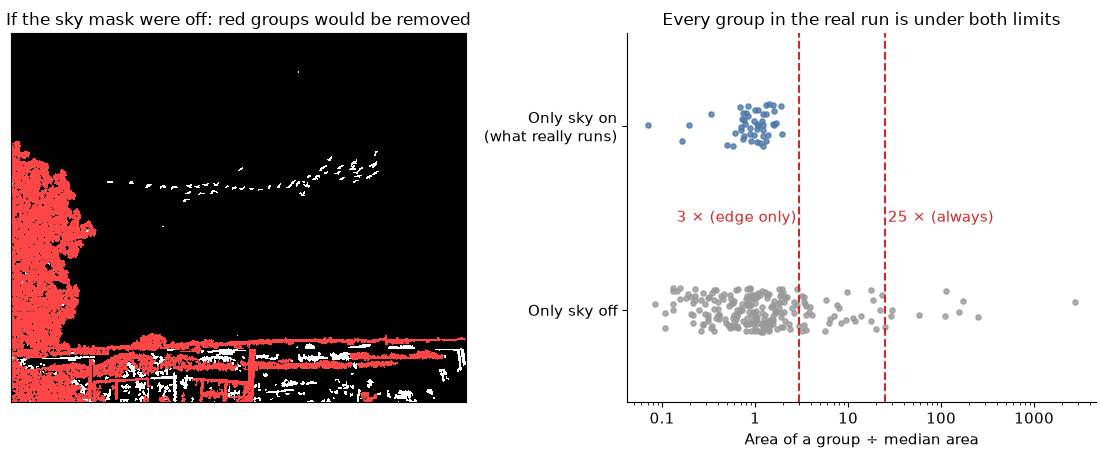
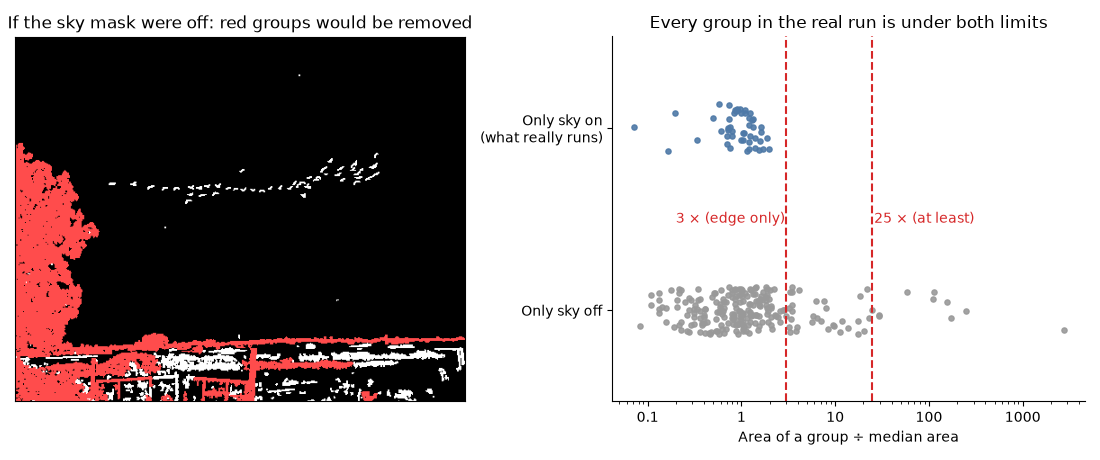
Bring the processing guide up to the current detector
Remove the gaps that are fixed and move what still matters into the review
notes of steps 2 and 4. Measure every number again on the current detector,
in the app's default settings, and redraw the step 16 picture.

diff --git a/docs/processing.md b/docs/processing.md
@@ -21,9 +21,8 @@ The code for all of this is in [`blob_filter.rs`](../src-tauri/src/blob_filter.r
 Every step ends with a **review note**: why the step is there, what happens without it, and where it is weak. The
 numbers come from switching off one step at a time, on this photo and on synthetic scenes where the true count is known.
 On this photo more rings is not better, because its true count is unknown. It is also the only real photo tested, so
-treat the numbers as evidence and not as proof. [Known gaps](#known-gaps-and-what-was-tried) lists the gaps found and
-what happened when they were tackled. Scene numbers in the notes were measured before those fixes, unless a note says
-otherwise. The fixes don't change this photo's count at the default settings.
+treat the numbers as evidence and not as proof. [Known gaps](#known-gaps-and-what-was-tried) lists the weak points that
+remain and the changes that were tried and rejected.
 
 ## The steps at a glance
 
@@ -93,7 +92,7 @@ $$
 
 > **Review note.** A bird is a silhouette, so brightness is enough, and one channel takes less memory. No single colour
 > channel does clearly better here: blue gives 51, green 52 and red 56, against 53 for grey. The weak point is the
-> assumption itself: a bird lighter than the sky scores zero ([gap 5](#gap-5-only-dark-or-only-light-birds)).
+> assumption itself: a bird lighter than the sky scores zero ([gap 3](#gap-3-only-dark-or-only-light-birds)).
 
 ---
 
@@ -120,8 +119,11 @@ the fields are still there, just blocky.
 
 ![The tiny copy before and after the closing](images/03_sky_erase.jpg)
 
-> **Review note.** Without the closing, a flock would look like rough texture and be taken for land. The shrinking
-> follows $w$, which is why $w$ now grows with the photo ([gap 1](#gap-1-the-window-is-in-pixels)).
+> **Review note.** Without the closing, a flock would look like rough texture and be taken for land. $w$ grows with the
+> photo because otherwise the count depends on the resolution. This photo resized to 0.5×, 0.75×, 1.5× and 2× gives 53
+> every time, and 3× and 4× give 55 and 58. With $w$ fixed at 31, the same copies give 43, 51, 60, 64, 66 and 74. Resized
+> copies have no new detail, so this is only an approximation of real photos at those sizes. The blur, the opening and
+> the minimum radius are still in pixels, which is one likely reason why 3× and 4× drift.
 
 ### Step 3: Measure how rough each area is
 
@@ -179,10 +181,16 @@ back to the size of the photo.
 
 ![The sky mask, plain and over the photo](images/05_sky_mask.jpg)
 
-> **Review note.** Rule 1 earns its place: without it this photo gives 139. Rule 2 changes nothing here, but it protects
-> dense flocks: a scene with a ball of 120 overlapping birds inside a flock gives 81 with it and 56 without it. The
-> exception to rule 1 changes nothing on this photo either, and it fixes the photos where the top is not sky
-> ([gap 4](#gap-4-the-top-of-the-photo-is-assumed-to-be-sky)).
+> **Review note.** Rule 1 earns its place: without it this photo gives 139. Its exception changes nothing here, but it
+> handles photos where the top is not sky. Without it, a smooth dark band across the whole top finds 0 of 60 birds, and
+> branches across the top switch the mask off and count 211. With it, both find 60 of 60, and a photo of trees and a road
+> with no sky gives 1 false bird instead of 527. Scenes with real sky at the top don't change: 20 of 20 above a smooth dark
+> field, and above a bright lake with boats 21 of 20 with 30% sky and 10 of 10 with 15% sky. The limit of 1.6 comes from
+> these scenes and not from real photos. A smooth wall across the whole top that is less than 1.6 times darker than the
+> sky still fools the mask.
+>
+> Rule 2 changes nothing here, but it protects dense flocks: a scene with a ball of 120 overlapping birds inside a flock
+> gives 81 with it and 58 without it.
 
 ---
 
@@ -199,7 +207,7 @@ first.
 ![One bird, very close up, before and after removing the bright fringe](images/06_specks.jpg)
 
 > **Review note.** There is a stronger reason than the fringes. The closing also picks up bright noise peaks, which lifts
-> the sky estimate everywhere. Without this step, a scene with uneven light finds 43 of 112 birds and a dense flock of
+> the sky estimate everywhere. Without this step, a scene with uneven light finds 46 of 112 birds and a dense flock of
 > thin birds finds 0 of 420. On this photo the count barely moves (52), but 5 groups are lost and 2 appear.
 
 ### Step 6: Erase the birds
@@ -211,9 +219,9 @@ slowly.
 ![The photo after the closing: no birds, blocky sky](images/07_closing.jpg)
 
 > **Review note.** A plain blur would mix the dark birds into the sky and shrink their contrast. The closing skips them.
-> The middle of anything thicker than the window survives as "sky". A bird 50 pixels thick is still found by its rim, but
-> its area comes out at about 3,450 pixels instead of 5,500, and a solid dark mass of birds is mostly missed. See
-> [gap 1](#gap-1-the-window-is-in-pixels).
+> The middle of anything thicker than the window survives as "sky". On a photo 1600 pixels wide, where the window is 25,
+> a bird 50 pixels thick is still found by its rim, but its area comes out at about 2,700 pixels instead of 5,500, and
+> step 16 then removes it (20 of 21 birds). A solid dark mass of 2,400 birds gives about 40.
 
 ### Step 7: Smooth the sky
 
@@ -233,7 +241,7 @@ birds dip down, as if they weren't there. It also ignores the bright fringes.
 
 ![Brightness along one row of the photo, compared with the sky](images/09_row_profile.png)
 
-> **Review note.** Without the box blur this photo gives 69 instead of 53, so the blocks do matter.
+> **Review note.** Without the box blur this photo gives 72 instead of 53, so the blocks do matter.
 
 ---
 
@@ -252,7 +260,7 @@ $$
 
 > **Review note.** This is a real trade-off. Without the blur this photo gives 60, and with a 5 × 5 blur it gives 50. A
 > bird one pixel thick loses about half of its contrast, and that contributes to
-> [gap 3](#gap-3-a-dense-flock-partly-hides-itself): the dense flock scene finds all 420 birds without the blur.
+> [gap 2](#gap-2-a-dense-flock-partly-hides-itself): the dense flock scene finds all 420 birds without the blur.
 
 ### Step 9: Measure how much darker each pixel is
 
@@ -286,7 +294,7 @@ clouds glow a bit too, and that is what the next step is for.
 > **Review note.** The argument is right, but the measured gain is small: subtracting gives 54 on this photo, and 109
 > instead of 112 in a scene where the sky goes from 235 to 55 and birds are 15% darker than it. It costs one division, so
 > it stays. With *Invert* the division still uses the real sky and not the flipped one
-> ([gap 5](#gap-5-only-dark-or-only-light-birds)). That is also the only case where the upper limit in $\min(\ldots, 1)$
+> ([gap 3](#gap-3-only-dark-or-only-light-birds)). That is also the only case where the upper limit in $\min(\ldots, 1)$
 > acts, because otherwise $d$ cannot exceed 1.
 
 ### Step 10: Measure how busy the sky is
@@ -320,11 +328,11 @@ doing its job.
 
 > **Review note.** The median is the best defended choice in the whole process. An average-based measure changes this
 > photo by one bird (54), but finds 0 of 420 in the dense flock scene. Without the 0.05 limit, a scene with heavy cloud
-> texture finds 6 of 60 birds instead of 59. Two claims above go too far:
+> texture finds 33 of 60 birds instead of 59. Two claims above go too far:
 >
 > - "Exactly" holds only when $d$ is centred on zero. The closing gives an upper envelope of the sky, so $d$ is shifted
 >   upwards, and $t$ is better read as the typical distance from that envelope.
-> - "No trace" holds for this flock, but not for a dense one ([gap 3](#gap-3-a-dense-flock-partly-hides-itself)).
+> - "No trace" holds for this flock, but not for a dense one ([gap 2](#gap-2-a-dense-flock-partly-hides-itself)).
 >
 > One suspicion did not hold up: that land inside the $93 \times 93$ square raises the pass mark and hides the flock
 > above the horizon. Leaving the land out gives 52 instead of 53 at $k = 9$, and no change (60) at $k = 6$. That flock is
@@ -478,15 +486,14 @@ Here $m = 98$ pixels, so the limits are at least 2,450 and 294 pixels. The large
 is removed, because the sky mask has already done this job. To see this rule at work, the left picture shows what would
 happen with the sky mask switched off. Of 228 groups, 9 would be removed: the whole tree, which alone has 227,338
 pixels, and big pieces of the horizon, field and fence. The many small white pieces in the field would stay, and the
-count would be 332. That is why the sky mask is needed as well. (The picture is from before $m_G$ was added, when 13
-groups were removed and the count was 323.)
+count would be 332. That is why the sky mask is needed as well.
 
 ![Which groups this rule would remove with the sky mask off, and how groups compare with the limits](images/18_clutter.png)
 
-> **Review note.** With the sky mask on it rarely acts, but it is not redundant. With the mask off, removing it gives 686
+> **Review note.** With the sky mask on it rarely acts, but it is not redundant. With the mask off, removing it gives 704
 > instead of 332. It also removes wires, which the mask can't see because the closing erases them. The edge rule still
-> compares with the whole photo, because comparing only nearby made the mask-off count worse, so near birds at the edge
-> are still at risk ([gap 2](#gap-2-steps-16-and-17-judge-size-too-simply)).
+> compares with the whole photo, because comparing only nearby makes the mask-off count worse (340), so near birds at the
+> edge are still at risk ([gap 1](#gap-1-steps-16-and-17-judge-size-too-simply)).
 
 ### Step 17: Spot birds that overlap
 
@@ -528,7 +535,7 @@ comparing everything with everything would be slow.)
 
 > **Review note.** Without this step the count is 49, so it decides 8% of the result. Area alone can't tell a large bird
 > from several small ones. On this photo two of the ratios sit right at the rounding limit of 1.5 (about 1.50 and 1.53),
-> so a small change can move the count. See [gap 2](#gap-2-steps-16-and-17-judge-size-too-simply).
+> so a small change can move the count. See [gap 1](#gap-1-steps-16-and-17-judge-size-too-simply).
 
 ---
 
@@ -575,93 +582,61 @@ catch the far flock. Lowering it has a cost, though. It catches more of that flo
 
 ## Known gaps and what was tried
 
-Every change below had to help its target scene, keep this photo at 53, and pass all the tests. A change that didn't
-was not kept, and the note says why.
+These are the weak points that remain. A change was kept only if it helped its target scene, kept this photo at 53, and
+passed all the tests. The ones that didn't are listed here, so nobody has to try them again. In the tables, an arrow goes
+from the current result to the result with the change.
 
 Scenes are synthetic, so they show how a mechanism works and not how often it fails on real photos.
 
-### Gap 1: The window is in pixels
+### Gap 1: Steps 16 and 17 judge size too simply
 
-*Fixed.* $w$ was a fixed number of pixels, so the same scene gave a different count at another resolution. It now grows
-with the whole photo. The table shows this photo resized (detector default settings):
+*Partly fixed.* Away from the photo's edge, step 16 compares a group with its own flock as well, so 8 near birds next to
+60 small ones are all kept (68 of 68). Area alone still can't tell one large bird from several small ones:
 
-| Size | 0.5× | 0.75× | 1× | 1.5× | 2× | 3× | 4× |
-| --- | --- | --- | --- | --- | --- | --- | --- |
-| Before | 43 | 51 | 53 | 60 | 64 | 66 | 74 |
-| After | 53 | 53 | 53 | 53 | 53 | 55 | 58 |
+- A near bird next to 5 far ones counts as 8 birds (13 instead of 6).
+- An isolated ball of 30 birds counts as 1 (41 of 70).
+- A ball of 30 birds inside a flock is too low, because overlapping birds cover less area (73 of 90).
+- 4 merged birds at the edge are removed (40 of 44), and near birds at the edge are at risk too.
 
-Resized copies have no new detail, so scenes were also drawn from scratch at each size, with 70 birds in each. Most
-counts stayed at 70–71 either way, and the fix mattered at 8000 pixels, where two of three scenes went from 73–74 to 70.
-
-- Still in pixels: the blur, the opening and the minimum radius. That is one likely reason why 3× and 4× still drift.
-- Side effects on scenes 1600 pixels wide, which now use $w = 25$: the dense flock went from 273 to 373 of 420 (better),
-  and a ball of 30 birds inside a flock went from 77 to 73 of 90 (worse).
-- Photos that aren't 2000 pixels wide can count differently from before, including entries in the history when they are
-  counted again.
-
-### Gap 2: Steps 16 and 17 judge size too simply
-
-*Partly fixed.* Step 16 compared with the whole photo, while step 17 argues that size only means something locally. It
-now uses $m_G$ away from the edge, so 8 near birds next to 60 small ones are kept: 60 of 68 became 68 of 68. The cost:
-with the sky mask off this photo goes from 323 to 332, and the *Adaptive* method from 2,130 to 2,552 (that method is far
-off on this photo either way).
-
-Tried and not kept, because each one fixes one scene and breaks another:
+Tried and rejected, because each one fixes one thing and breaks another:
 
 | Change | Better | Worse |
 | --- | --- | --- |
 | At most 4 birds per group | near bird next to 5 far ones: 13 → 9 (true count 6) | ball of 30 in a flock: 73 → 64 (true count 90) |
 | Whole-photo median for groups with few neighbours | isolated ball of 30: 41 → 54 (true count 70) | this photo at $k = 4$: 80 → 135, and the smooth sky scene: 32 → 48 (true count 30) |
-| Edge limit of 5 or 8 instead of 3 | 4 merged birds at the edge: 40 → 41 (true count 44) | mask-off count of this photo: 323 → 335 at 8 |
-| Comparing with $m_G$ at the edge too | | mask-off count: 323 → 340, and the failed-mask scene: 211 → 224 |
+| Edge limit of 5 or 8 instead of 3 | 4 merged birds at the edge: 40 → 41 (true count 44) | mask-off count of this photo: 332 → 340 at 5, and 351 at 8 |
+| Comparing with $m_G$ at the edge too | nothing in the scenes | mask-off count of this photo: 332 → 340 |
 
-Still open: area alone can't tell one large bird from several small ones. A near bird next to a far flock is still counted
-as 8 birds, an isolated ball of 30 still counts as 1, and merged birds at the edge are still removed.
+### Gap 2: A dense flock partly hides itself
 
-### Gap 3: A dense flock partly hides itself
+*Not fixed.* A dense flock of thin birds raises its own busyness about three times, from 0.0067 to about 0.019. A scene
+1600 pixels wide, with $w = 25$, finds 373–391 of 420 birds, depending on the noise. With a window of 31 it finds only
+273–323, so the median is not the whole answer.
 
-*Not fixed.* A dense flock of thin birds raises its own busyness about three times, from 0.0067 to 0.022. With $w = 31$,
-only 273–323 of 420 birds are found, so the median is not the whole answer.
+Tried and rejected:
 
-Tried and not kept: measuring busyness a second time, without the pixels that already look like birds. The flock goes
-from 373 to 395 of 420, but a ball of 120 birds goes from 81 to 59 of 180. Leaving out everything above $q > 0.6$ finds
-all 420, but this photo goes from 80 to 104 at $k = 4$. It would also run the slowest step twice. Measuring only pixels
-darker than the sky finds all 420 as well, but this photo goes from 53 to 62.
+| Change | Better | Worse |
+| --- | --- | --- |
+| Measuring busyness a second time, without pixels above $q > 1$ | dense flock: 373 → 395 of 420 | ball of 120 birds: 81 → 59 (true count 180), and the slowest step runs twice |
+| The same, without pixels above $q > 0.6$ | dense flock: 373 → 420 of 420 | this photo at $k = 4$: 80 → 104, and the ball of 120 as above |
+| Measuring only pixels darker than the sky | dense flock: 373 → 420 of 420 | this photo: 53 → 62 |
 
-### Gap 4: The top of the photo is assumed to be sky
+### Gap 3: Only dark or only light birds
 
-*Fixed.* See the exception in [step 4](#step-4-decide-what-counts-as-sky). This photo does not change.
+*Partly fixed.* With *Invert*, the contrast is measured against the real sky and not the flipped one, so it means the same
+in any light. On a sky going from 170 to 30, it finds 101 of 112 birds that are 15% brighter than the sky, and all 112 of
+those 25% brighter. This photo, which has no light birds, gets 21 false detections with *Invert*.
 
-| Scene | True count | Before | After |
-| --- | --- | --- | --- |
-| Smooth dark band across the whole top, like a roof | 60 | 0 | 60 |
-| Branches across the whole top | 60 | 211 | 60 |
-| Trees and a road, no sky | 0 | 527 | 1 |
-| Sky above a smooth dark field (control) | 20 | 20 | 20 |
-| Sky above a bright lake with boats, 30% sky (control) | 20 | 21 | 21 |
-| Sky above a bright lake with boats, 15% sky (control) | 10 | 10 | 10 |
-| Half of the top blocked (control) | 60 | 60 | 60 |
-
-The limit of 1.6 comes from these scenes: below it, the last lake scene counts the boats (48), and it is not based on real
-photos. A smooth wall less than 1.6 times darker than the sky, across the whole top, still fools the mask.
-
-### Gap 5: Only dark or only light birds
-
-*Partly fixed.* With *Invert*, the contrast is now measured against the real sky and not the flipped one, so it means the
-same in any light. Light birds on a sky going from 170 to 30 went from 72 to 101 of 112 (15% brighter than the sky) and
-from 96 to 112 of 112 (25% brighter). This photo, which has no light birds, went from 119 to 21 false detections with
-*Invert*. Default settings are not affected.
-
-Not done: counting light and dark birds at the same time. A scene with 20 of each still gives 20 either way. Looking both
-ways by default could add up to 21 false birds to this photo, so it would have to be a new setting, which is a choice
-about the app rather than a fix.
+Light and dark birds still can't be counted together: a scene with 20 of each gives 20 either way. Looking both ways by
+default could add up to 21 false birds to this photo, so it would have to be a new setting, which is a choice about the
+app rather than a fix.
 
 ### Left as they are
 
 - *Max radius* has no effect at its default in the app, but it is still useful when the user moves the slider.
 - *Adaptive* and *Otsu* add a whole second path through the code. Removing them is a choice about the app, and whether
   anyone uses them can't be told from the code.
-- Scaling the blur, the opening and the minimum radius with the photo, as in gap 1, was not tried.
+- Scaling the blur, the opening and the minimum radius with the photo, like $w$, has not been tried.
 
 ## All the numbers in one place
 
